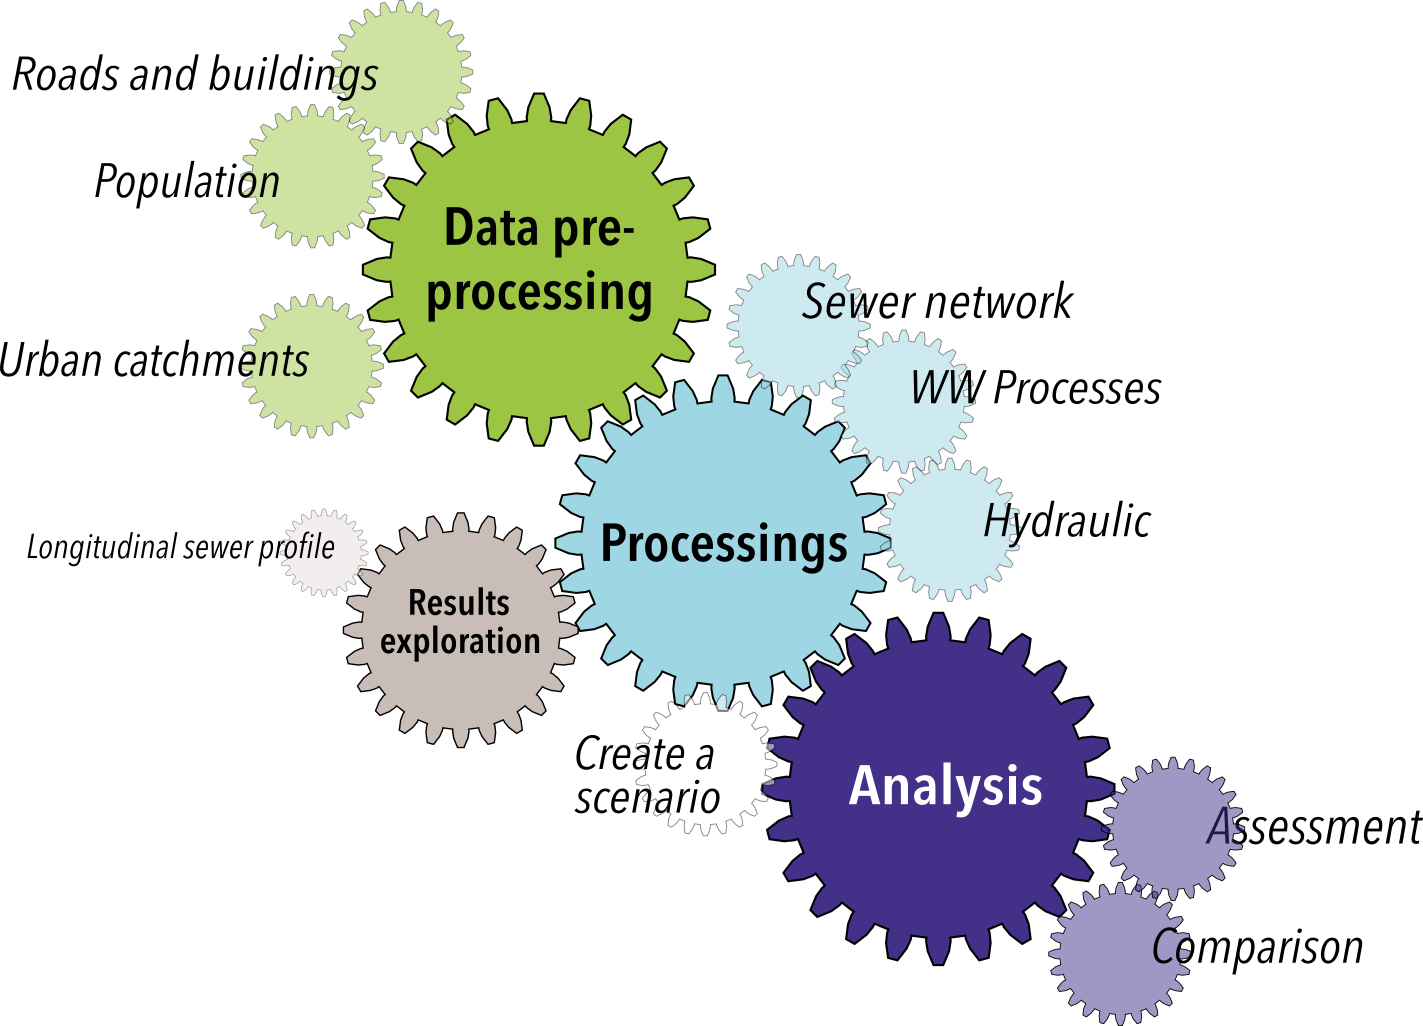
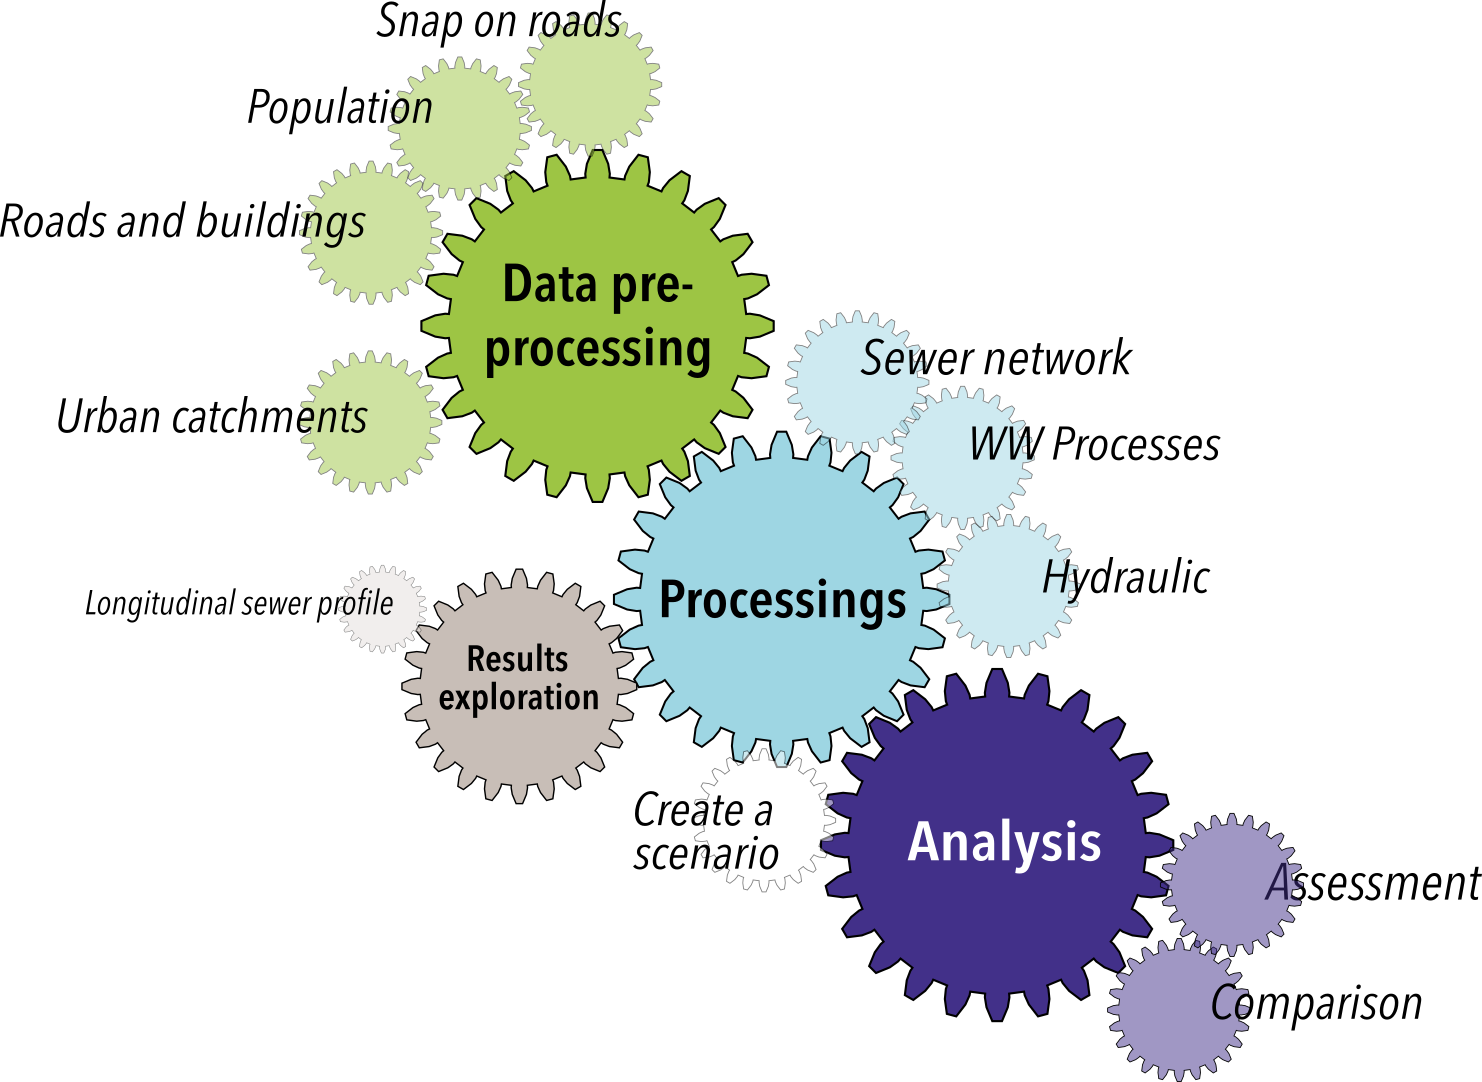
update installation.rst, introduction.rst and preparation.rst

Changed region(s): [[0.0, 0.0, 1.0, 1.0]]

diff --git a/docs/preparation.rst b/docs/preparation.rst
@@ -12,14 +12,14 @@ Pour pouvoir utiliser le module ``Réseau``, **4 couches géographiques** sont n
 
 * ``STEU`` : couche vecteur qui contient l'ensemble des **emplacements envisagés comme exutoires** (station de traitement des eaux usées existante ou projet possible), type : *point*.
 
-* ``bâtiments`` : couche vecteur qui rassemble les **bâtiments à raccorder**, type : *point* (centroïdes des bâtiments). Si l'occupation est différente selon les bâtiments, le nombre d'habitants par bâtiment peut être indiqué via un attribut (*population* par exemple).
+* ``bâtiments`` : couche vecteur qui rassemble les **bâtiments à raccorder**, type : *point* (centroïdes des bâtiments). Le nombre d'habitants par bâtiment doit être renseigné dans un attribut *population*.
 
 * ``routes`` : couche vecteur indiquant les **routes empruntables** pour le raccordement, type : *ligne*.
 
 * ``MNT`` : couche raster (.tif, .asc, .vrt) du **modèle numérique de terrain** pour la zone d'intérêt.
 
 .. note::
-    Les couches vecteur peuvent être des .shp ou des .gpkg.
+    Les couches vecteurs peuvent être des .shp ou des .gpkg.
 
 Si vous disposez de ces 4 couches, vous pouvez vous rendre directement à la page :ref:`Création d'un scénario pour la question du centralisé / décentralisé <prb1>`.
 Sinon, poursuivez ici pour quelques astuces et explications sur l'obtention et la préparation des données géographiques requises.
@@ -37,9 +37,9 @@ En contexte français (Hexagone et Outre-Mer)
     * MNT à 25 m : `BD ALTI® 25M <https://geoservices.ign.fr/bdalti>`_
     * MNT à 5 m voire 1 m : `RGE ALTI® <https://geoservices.ign.fr/rgealti>`_
 
-* ``routes`` et ``bâtiments``: couches téléchargeables par département sur le site Géoservices de l'IGN `BD TOPO® <https://geoservices.ign.fr/bdtopo>`_.
-
 .. _bd-topo:
+
+* ``routes`` et ``bâtiments``: couches téléchargeables par département sur le site Géoservices de l'IGN `BD TOPO® <https://geoservices.ign.fr/bdtopo>`_.
 
 .. tip::
     Pour accéder aux routes et bâtiments à l'échelle de votre zone d'étude et non du département, vous pouvez installer et utiliser le plugin `BD TOPO® Extractor <https://plugins.qgis.org/plugins/bd_topo_extractor/>`_.
@@ -51,22 +51,22 @@ En contexte français (Hexagone et Outre-Mer)
         * Choisir les couches ``Bâtiment`` et ``Tronçon de route``.
 
 .. attention::
-    La couche ``bâtiments`` obtenue est de type *polygone* et non *point*. Elle doit donc être transformée via le module :ref:`Population <population>` intégré à Elan ou le module ``Centroïdes`` qui est natif de QGIS.
+    La couche ``bâtiments`` obtenue est de type *polygone* et non *point*. Elle doit donc être transformée via un des modules :ref:`Population <population>` intégré à Elan.
 
 En contexte international
 ^^^^^^^^^^^^^^^^^^^^^^^^^
 
-* ``MNT`` : le MNT ou DEM en anglais (Digital Elevation Model), est *a priori* disponible sur l'ensemble des territoires du monde à une maille de 30 m via différentes plateformes.
+* ``MNT`` : le MNT ou DEM en anglais (Digital Elevation Model) est caractérisé par une maille d'acquisition (30 m, 12.5 m, 10 m, 5 m, 1 m sont les mailles les plus communes). 
+**Plus la maille est fine, plus le MNT est précis et plus les sorties du module** ``Réseau`` **seront pertinentes**. Idéalement, une maille de 5 m ou moins sera utilisée.
 
 .. note::
-    Plus le MNT est précis, plus les sorties du module ``Réseau`` seront pertinentes. 
-    **Nous vous recommandons donc de regarder si des données MNT à 10 m ou 5 m sont disponibles dans votre contexte national**. 
-    A défaut, utilisez le MNT à 30 m, mais gardez en tête que la précision du MNT impacte les résultats du module ``Réseau`` (surestimation du nombre de stations de pompage). 
+    La disponibilité du MNT à des mailles inférieures à 30 m varie selon les territoires. **Nous vous recommandons de regarder si des données MNT à 10 m ou 5 m sont disponibles dans votre contexte national**. 
+    A défaut, utilisez un MNT à 30 m (communément disponible), mais gardez en tête que la précision du MNT impacte les résultats du module ``Réseau`` (surestimation du nombre de stations de pompage). 
 
 .. _alaska-edu:
 
 .. tip::
-    Si vous ne disposez pas de données locales de MNT à une maille inférieure à 30 m, vous pouvez consulter le site ASF Data Search à l'adresse suivante : https://search.asf.alaska.edu/#/ et suivre les étapes indiquées pour essayer de trouver une tuile de MNT à rune maille de 12.5 m sur votre zone.
+    Si vous ne disposez pas de données locales de MNT à une maille inférieure à 30 m, vous pouvez consulter le site ASF Data Search à l'adresse suivante : https://search.asf.alaska.edu/#/ et suivre les étapes indiquées pour essayer de trouver une tuile de MNT à une maille de 12.5 m sur votre zone.
 
     * Sélectionner Geographic Search pour Search type (bulle 1).
     * Sélectionner ALOS PALSAR pour Data Set (bulle 2).
@@ -78,10 +78,10 @@ En contexte international
 .. image:: _static/alaska-edu.png
       :width: 700
 
-* ``routes`` et ``bâtiments``: le module :ref:`Routes et bâtiments <routes>` d'Elan vous permet d'extraire les données OpenStreetMap sur une zone définie.
+* ``routes`` et ``bâtiments``: le module :ref:`Routes et bâtiments <routes>` d'Elan vous permet d'extraire les données de types routes et bâtiments d'OpenStreetMap sur une zone définie.
 
 .. attention::
-    La couche ``bâtiments`` obtenue sera de type *polygone* et non *point*. Elle devra donc être transformée via le module :ref:`Population <population>` intégré à Elan ou le module ``Centroïdes`` qui est natif de QGIS.
+    La couche ``bâtiments`` obtenue sera de type *polygone* et non *point*. Elle devra donc être transformée via un des modules :ref:`Population <population>` intégré à Elan.
 
 .. _open-buildings:
 
@@ -89,8 +89,8 @@ En contexte international
      Si votre zone d'étude est située dans l'hémisphère Sud, Open Buildings peut constituer une alternative intéressante à OpenStreetMap pour les bâtiments. Pour plus d'informations : https://sites.research.google/gr/open-buildings/.
 
 
-Utilisation des modules ``Routes et bâtiments`` et ``Population``
------------------------------------------------------------------
+Utilisation des modules ``Routes et bâtiments``, ``Population`` et ``Projection sur routes`` 
+--------------------------------------------------------------------------------------------
 
 .. _routes:
 
@@ -121,24 +121,20 @@ OpenStreetMap est un outil ouvert et collaboratif.
 .. image:: _static/r+b.png
       :width: 615
 
-**3.** Après exécution du module, vous disposez de **cinq sorties** :
+**3.** Après exécution du module, vous disposez de **trois sorties** :
 
 * ``Bâtiments`` : couche de type *polygone* avec les bâtiments tels que définis dans OpenStreetMap
 
 * ``Bâtiments fusionnés`` : couche de type *polygone* obtenue après fusion des bâtiments adjacents
 
-* ``Centroïdes des bâtiments`` : couche de type *point* qui contient les centroïdes de la couche ``Bâtiments`` 
-
-* ``Centroïdes des bâtiments fusionnés`` : couche de type *point* qui contient les centroïdes de la couche ``Bâtiments fusionnés``
-
 * ``Routes`` : couche de type *ligne* avec les routes telles que définies OpenStreetMap
 
-Les couches **bâtiments** peuvent constituer des entrées pour le **module** ``Population``.
+Les couches **bâtiments** peuvent constituer des entrées pour les **modules** ``Population``.
 
-Les couches **centroïdes et routes** peuvent être utilisées en entrée du **module** ``Réseau``.
+La couche **routes** peuvent être utilisée en entrée du **module** ``Réseau``.
 
 .. tip:: 
-    Lorsque vous lancez le module, vous pouvez laisser l'option par défaut de *Créer une couche temporaire* pour les cinq sorties et n'enregistrer que celles dont vous
+    Lorsque vous lancez le module, vous pouvez laisser l'option par défaut de *Créer une couche temporaire* pour les trois sorties et n'enregistrer que celles dont vous
     avez besoin / celles qui vous donnent le plus satisfaction au regard de votre connaissance du terrain et de la problématique.
 
     Par exemple : 
@@ -148,10 +144,19 @@ Les couches **centroïdes et routes** peuvent être utilisées en entrée du **m
 
 .. _population:
 
-Module ``Population``
-^^^^^^^^^^^^^^^^^^^^^
+Modules ``Population`` : ``Population (répartition uniforme)`` et ``Population (répartition surfacique)``
+^^^^^^^^^^^^^^^^^^^^^^^^^^^^^^^^^^^^^^^^^^^^^^^^^^^^^^^^^^^^^^^^^^^^^^^^^^^^^^^^^^^^^^^^^^^^^^^^^^^^^^^^^
 
-Le module ``Population`` permet de **répartir un nombre connu d'individus au sein des bâtiments de la zone**. 
+Les modules ``Population`` permettent d'assigner à chaque bâtiment un nombre d'habitants via un attribut *population* et de réduire chaque bâtiment en un point (son centroïde).
+Ils se distinguent l'un de l'autre dans la modalité de répartition (nombre fixe ou variable d'habitants par bâtiment). Selon votre besoin, vous pouvez utiliser soit l'un, soit l'autre des modules ``Population``.
+
+Module ``Population (répartition uniforme)``
+""""""""""""""""""""""""""""""""""""""""""""
+
+Module ``Population (répartition surfacique)``
+""""""""""""""""""""""""""""""""""""""""""""""
+
+Le module ``Population (répartition surfacique)`` permet de **répartir un nombre connu d'individus au sein des bâtiments de la zone**. 
 La répartition se fait **en appliquant la méthode surfacique** qui considère l'emprise des bâtiments : plus un 
 bâtiment occupe une surface importante, plus le nombre d'individus associé sera lui aussi important.
 

diff --git a/docs/introduction.rst b/docs/introduction.rst
@@ -61,13 +61,16 @@ Elan est structuré en **plusieurs groupement de modules**.
     :width: 500
 
 * **Préparation des données** 
-    * ``Routes et bâtiments`` qui permet **d'extraire les données** `OpenStreetMap <https://www.openstreetmap.org>`_ de la zone d'intérêt définie par l'utilisateur.
-    * ``Population`` qui est utilisable pour **répartir un nombre connu d'habitants** au sein d'un ensemble de bâtiments.
-    * ``Bassins versants urbains`` pour **identifier les différents bassins versants urbains** drainés par un réseau unitaire connu. 
+    * ``Routes et bâtiments`` qui permet **d'extraire les données de type routes et de type bâtiments** `OpenStreetMap <https://www.openstreetmap.org>`_ sur la zone d'intérêt définie par l'utilisateur.
+    * ``Population (répartition uniforme)`` pour **assigner un nombre identique d'habitants** à chaque bâtiment sur la base d'un nombre moyen d'habitants par bâtiment.
+    * ``Population (répartition surfacique)`` qui est une alternative à ``Population (répartition uniforme)`` et permet de **d'ajuster le nombre d'habitants selon la surface du bâtiment** (nombre d'habitants différent d'un bâtiment à un autre) sur la base d'un total d'habitants connu.
+    * ``Projection sur routes`` qui est utilisable pour **projeter le centroïde de chaque bâtiment sur la route la plus proche** et ainsi simplifier le pré-dimensionnement du réseau.
+    * ``Bassins versants urbains`` pour **identifier les différents bassins versants urbains** drainés par un réseau unitaire connu à l'aide de :ref:`pysheds <pysheds>`. 
 
 .. note::
     L'utilisation de ces modules est facultative. Elle permet, si l'utilisateur en a besoin, de préparer les données SIG requises en entrées des modules de type "Processus" : 
-    ``Routes et bâtiments`` et ``Population`` pour le module ``Réseau``, ``Bassins versants urbains`` pour le module ``Hydraulique``.
+    - ``Routes et bâtiments``, ``Population (répartition uniforme)``, ``Population (répartition surfacique)`` et ``Projection sur routes`` pour le module ``Réseau``, 
+    - ``Bassins versants urbains`` pour le module ``Hydraulique``.
 
 * **Processus**
     * ``Réseau`` pour **tracer un réseau d'assainissement** strict (réseau séparatif, eaux usées uniquement) dans une zone sans réseau à l'aide de :ref:`pysewer <pysewer>`.
@@ -122,7 +125,7 @@ Parmi les futures intégrations à Elan, ont été identifiés les travaux d'hyd
     :width: 100
     :target: https://www.univ-grenoble-alpes.fr/recherche/recherche-712368.kjsp  
 
-Le développement de l'outil en lui-même mobilise deux acteurs : 
+Le développement de l'outil en lui-même mobilise actuellement deux acteurs : 
 
  .. image:: _static/reversaal.png
     :width: 200 

diff --git a/docs/installation.rst b/docs/installation.rst
@@ -157,6 +157,10 @@ Son installation se fait via Elan.
 .. note::
     Les dépendances peuvent être concernées par des montées en version. Dans ce cas, faire ``REINITIALISATION DES PARAMETRES`` puis réinstaller les dépendances comme expliqué juste avant.
 
+    Lorsqu'une nouvelle version d'Elan est installée, il est également nécessaire de réinstaller *pysewer* et *wetlandoptimizer*.
+
+.. _pysheds:
+
 Question des déversements par temps de pluie : pysheds
 ^^^^^^^^^^^^^^^^^^^^^^^^^^^^^^^^^^^^^^^^^^^^^^^^^^^^^^
 
